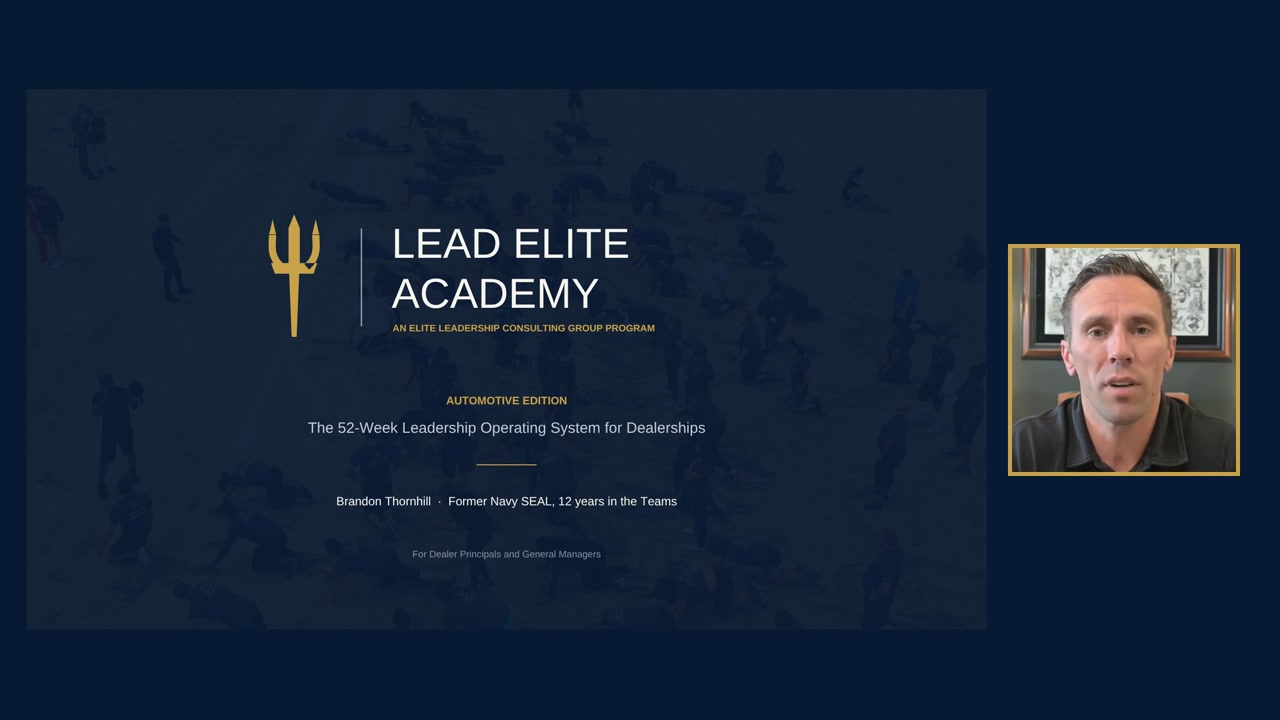
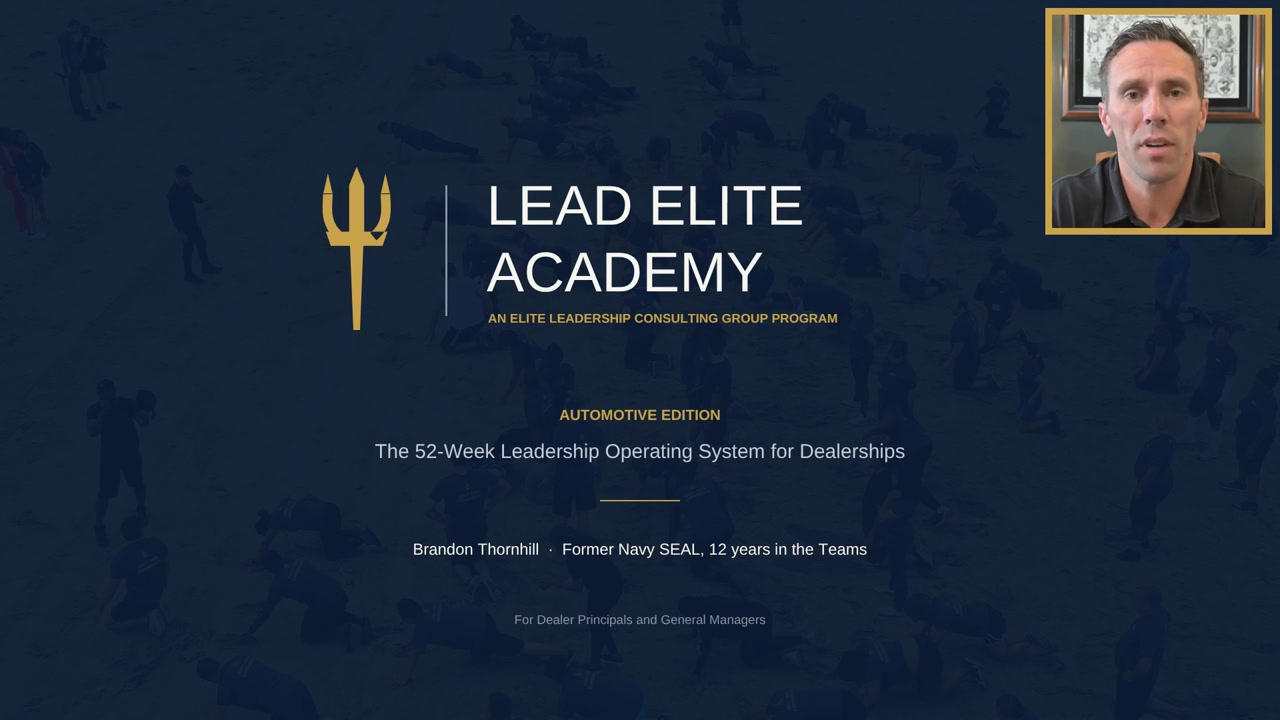
Full-bleed slides: deck fills the frame, PIP moves to top-right, no black frame 0

diff --git a/dealerships.html b/dealerships.html
@@ -53,7 +53,7 @@ a{text-decoration:none}
   <span>Lead <b>Elite</b> Academy</span>
 </a>
 <div class="stage"><div class="frame">
-  <iframe src="https://iframe.mediadelivery.net/embed/728526/b2f3ffea-e4d1-4002-a445-4808eb36711d?autoplay=false&preload=true" loading="lazy" allow="accelerometer;gyroscope;encrypted-media;picture-in-picture;fullscreen" allowfullscreen title="The 4-Minute Breakdown"></iframe>
+  <iframe src="https://iframe.mediadelivery.net/embed/728526/ff6f7f3a-4cdc-4b23-baff-d2a57026b2cb?autoplay=false&preload=true" loading="lazy" allow="accelerometer;gyroscope;encrypted-media;picture-in-picture;fullscreen" allowfullscreen title="The 4-Minute Breakdown"></iframe>
 </div></div>
 <a class="btn" href="https://calendly.com/admin-leadeliteacademy/30min" target="_blank" rel="noopener">Book a call <svg viewBox="0 0 24 24" fill="none" stroke="currentColor" stroke-width="2"><path d="M5 12h14M13 5l7 7-7 7"/></svg></a>
 </body>
